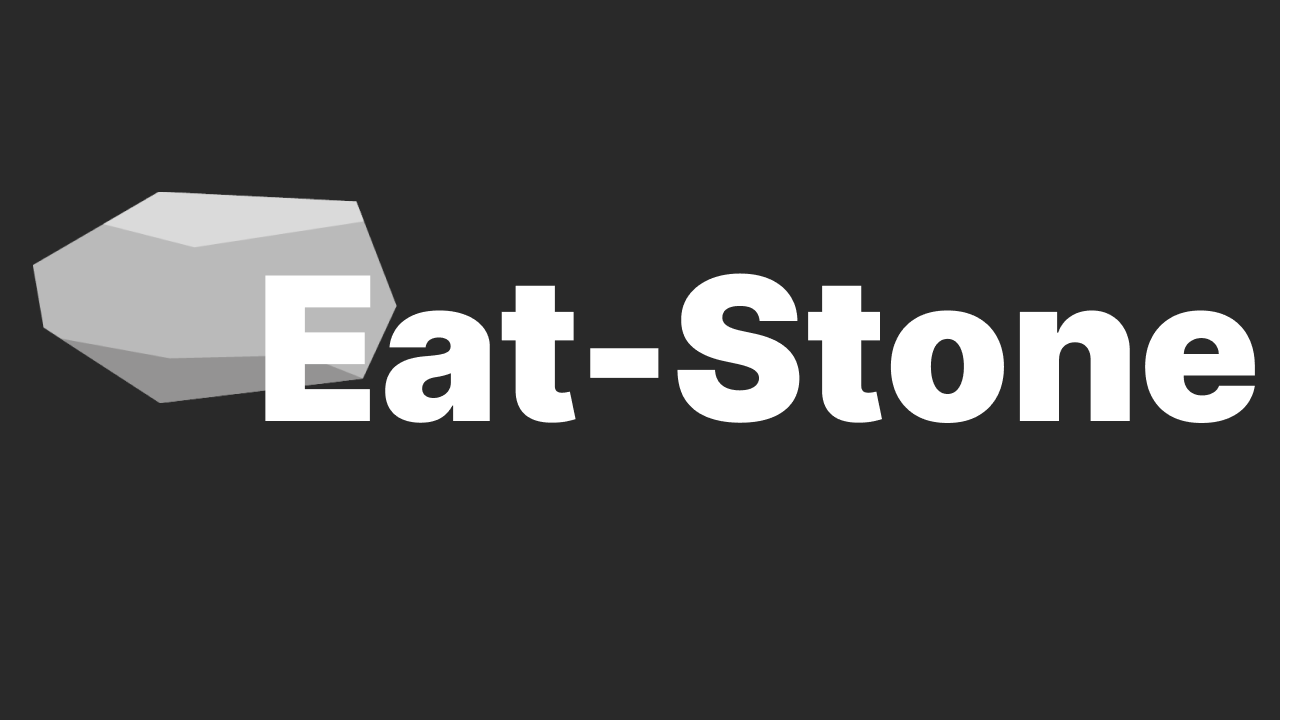
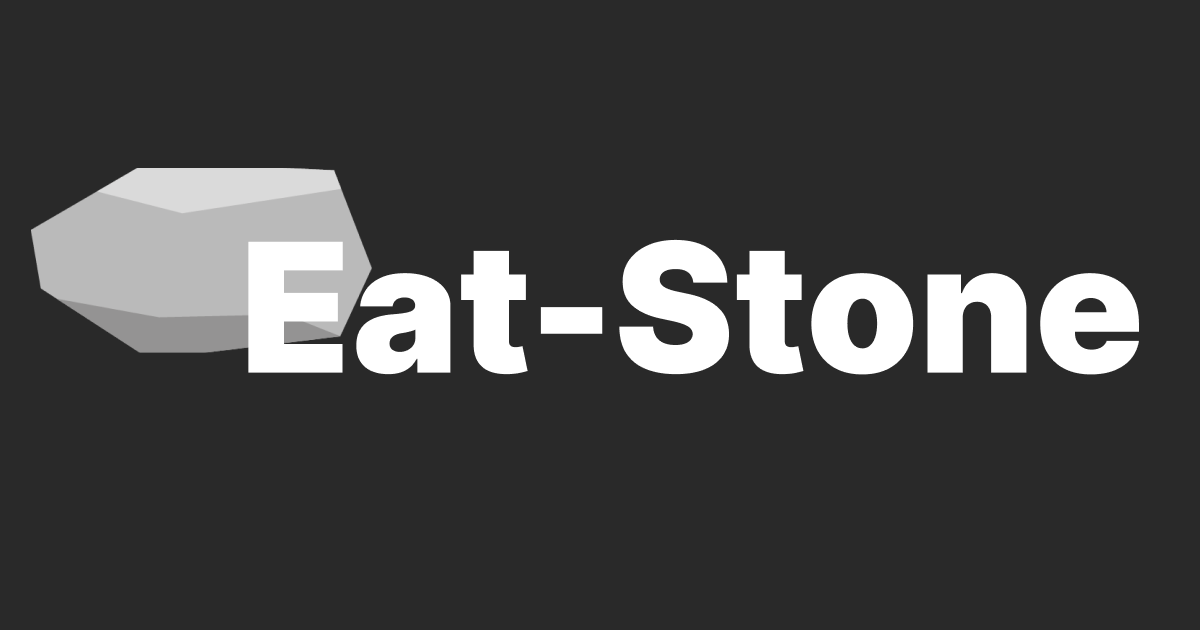
TEST: dinamic matadata test 2

diff --git a/src/app/knowledge/page.tsx b/src/app/knowledge/page.tsx
@@ -6,7 +6,11 @@ import { getMetadata } from "@/utils/metadata";
 import { getCategoryCounts, getSubCategoryPosts } from "@/utils/post";
 
 export async function generateMetadata(): Promise<Metadata> {
-  return getMetadata({ asPath: `/knowledge`, keywords: ["knowledge", "지식", "개발"], ogImage: `/knowledge/test` });
+  return getMetadata({
+    asPath: `/knowledge`,
+    keywords: ["knowledge", "지식", "개발"],
+    ogImage: `/posts/knowledge/test`,
+  });
 }
 
 export default async function KnowlegePage() {

diff --git a/src/utils/metadata.ts b/src/utils/metadata.ts
@@ -1,8 +1,8 @@
 import { Metadata } from "next";
 
 export const META = {
-  title: "프론트엔드 개발자 백승호의 블로그",
-  siteName: "개발자 백승호의 블로그",
+  title: "백승호의 블로그",
+  siteName: "프론트엔드 개발자 백승호의 블로그",
   description: "지덕체 기반으로 기록을 합니다",
   keyword: ["백승호", "eat-stone", "seunghowhite", "stone"],
   url: "https://seunghowhite.github.io",
